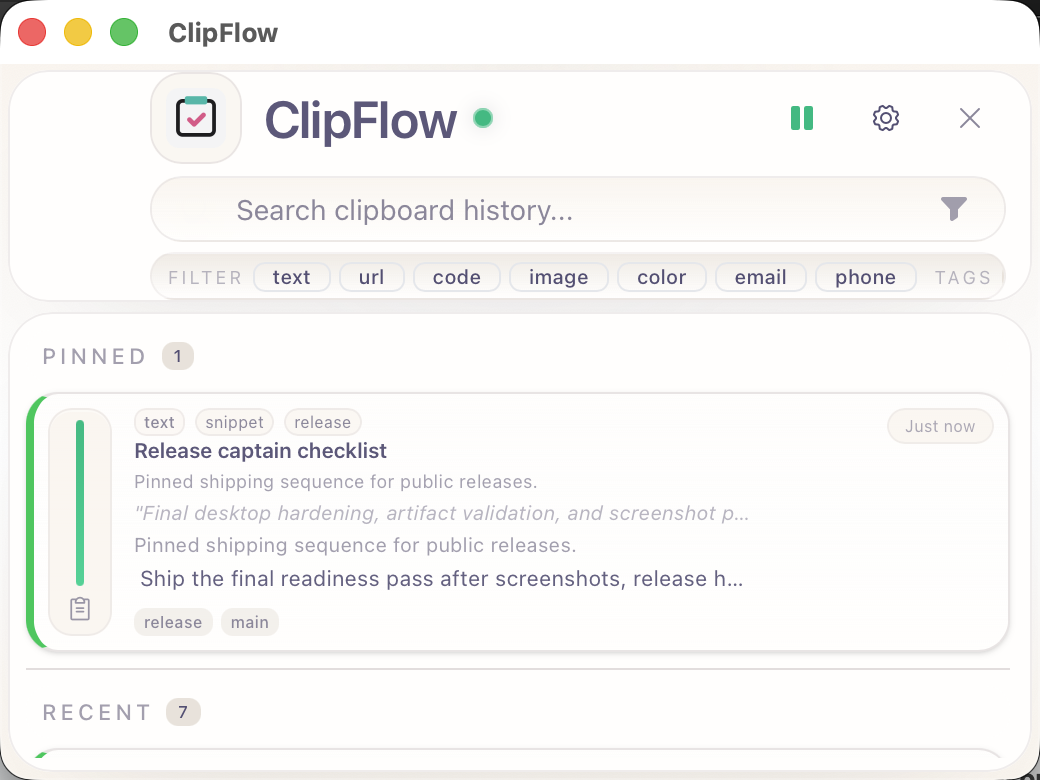
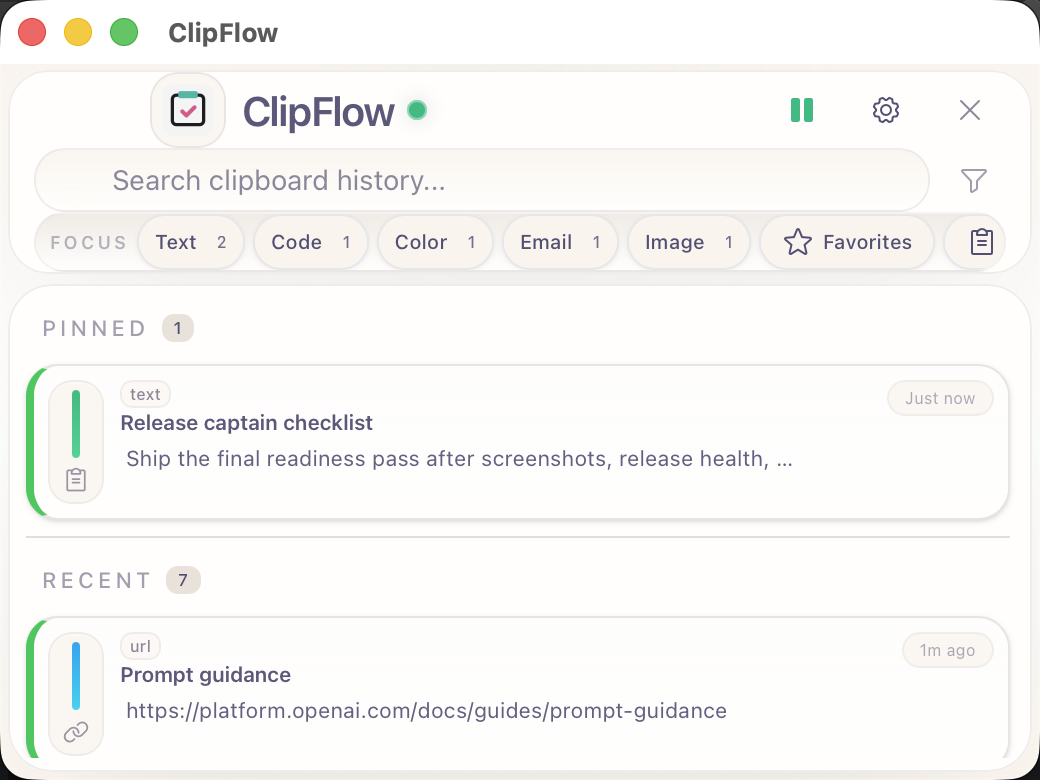
docs: refresh 0.1.2 public release surface

diff --git a/docs/releases/latest-beta.md b/docs/releases/latest-beta.md
@@ -1,10 +1,14 @@
 # ClipFlow Release Notes
 
+This page now tracks the `v0.1.2` beta build.
+
 ## Highlights
 
 - dense main window and tray workflow built for fast clipboard recall
 - tray-first utility and compact desktop workflow, with deeper management in the main window when needed
 - snippets, diagnostics, export, recovery, and local-first trust surfaces
+- smarter shell layout with a quieter filter model and less always-visible chrome
+- a slimmer, more utility-like quick tray that better matches the menu-bar workflow
 - release metadata, checksums, and validation artifacts included with public builds
 - for normal installation, start with the DMG and follow the install guide if macOS asks for trust confirmation
 
